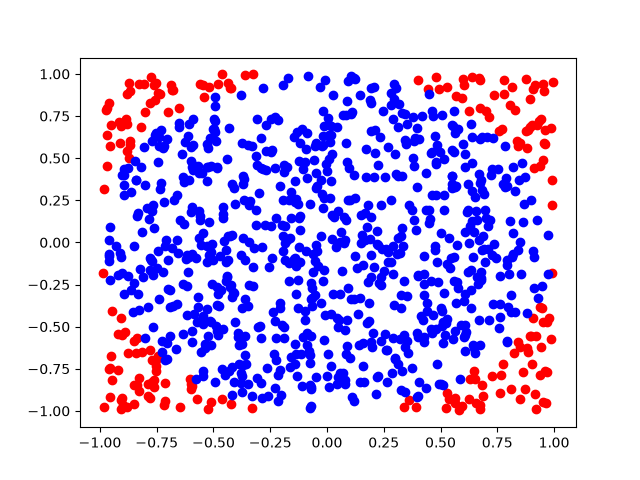
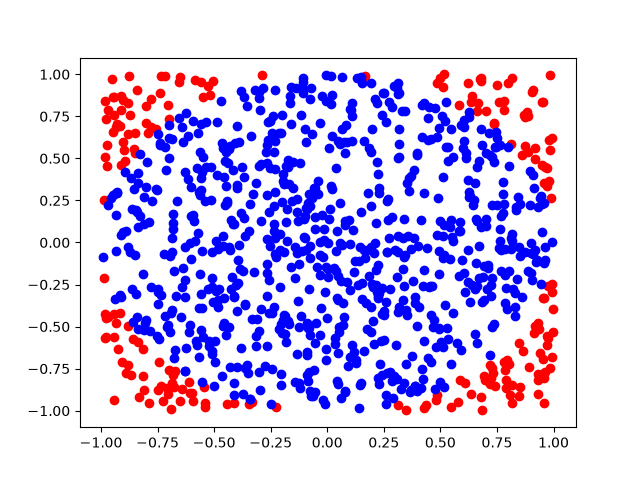
hej

diff --git a/MA3.py b/MA3.py
@@ -12,6 +12,7 @@ import math as m
 import concurrent.futures as future
 from statistics import mean 
 from time import perf_counter as pc
+from numba import njit
 
 # Exc1
 def approximate_pi(n):
@@ -31,22 +32,26 @@ def approximate_pi(n):
          else:
               x_ut.append(x)
               y_ut.append(y)
-
+    plt.figure()
     plt.scatter(x_ut, y_ut, color = "red")
     plt.scatter(x_in, y_in, color = "Blue")
     plt.savefig(F"pi är ungefär för {n}")
+    plt.close()
 
     pi_approx = 4 * (I/n)
 
     return pi_approx
 
 # Exc2, approximation
-def sphere_volume(n, d): 
-    points = ([random.uniform(-1, 1) for _ in range(d)] for _ in range(n))
-
-    inside = sum(1 for p in points if sum(map(lambda x: x**2, p)) <= 1)
-
-    return (inside / n) * (2 ** d)
+def sphere_volume(n, d):
+    I = 0
+    for _ in range(n):
+        x_val = [random.uniform(-1,1) for _ in range(d)]
+        x_kvad = list(map(lambda x: x**2, x_val))
+        if sum(x_kvad) <= 1:
+               I += 1
+        volym = (I/n) * (2**d)
+    return volym
 
 
 #Exc2, real value
@@ -55,27 +60,26 @@ def hypersphere_exact(n, d):
     return (m.pi ** (d / 2)) / m.gamma(d / 2 + 1)
 
 #Exc3: numba version
+@njit
 def sphere_volume_numba(n:int, d:int)->float:
-    inside = 0
+    I = 0
     for _ in range(n):
-        sum_sq = 0.0
-        for _ in range(d):
-            sum_sq += random.uniform(-1, 1)**2
-        if sum_sq <= 1.0:
-            inside += 1
-            
-    return (inside / n) * (2**d)
+        x_val = [random.uniform(-1,1) for _ in range(d)]
+        x_kvad = list(map(lambda x: x**2, x_val))
+        if sum(x_kvad) <= 1:
+               I += 1
+        volym = (I/n) * (2**d)   
+    return volym
 
 #Exc4: parallel code - parallelize actual computations by splitting data
 def sphere_volume_parallel(n, d, np=10):
-    chunk_size = n // np
-    args_n = [chunk_size] * np
-    args_d = [d] * np
-    with future.ProcessPoolExecutor(max_workers=np) as executor:
+     
+     ln = [int(n/np) for _ in range(np)]
+     ld = [d for _ in range(np)]
 
-        volumes = list(executor.map(sphere_volume, args_n, args_d))
-
-    return mean(volumes)
+     with future.ProcessPoolExecutor(max_workers=np) as exe:
+          resultat = list(exe.map(sphere_volume, ln, ld))
+     return mean(resultat)
     
 def main():
     # Exc1
@@ -86,23 +90,33 @@ def main():
     # Exc2
     n = 100000
     d = 2
-    sphere_volume(n, d)
+    print(f"approx volume of {d} dimentional sphere = {sphere_volume(n, d)}")
     print(f"Actual volume of {d} dimentional sphere = {hypersphere_exact(n,d)}")
 
     n = 100000
     d = 11
-    sphere_volume(n, d)
+    print(f"approx volume of {d} dimentional sphere = {sphere_volume(n, d)}")
     print(f"Actual volume of {d} dimentional sphere = {hypersphere_exact(n,d)}")
+    
 
     # Exc3
     n = 1000000
     d = 11
-    start = pc()
-    sphere_volume(n, d)
-    stop = pc()
-    print(f"Exc3: Sequential time of {d} and {n}: {stop-start}")
-    print("What is numba time?")
+    
+    for x in range(1, 4):
+        start = pc()
+        sphere_volume(n, d)
+        stop = pc()
+        print(f"Exc3: Run {x} Sequential time of {d} and {n}: {stop-start}")
 
+    print("What is numba time?")
+    for x in range(1, 4):
+        start = pc()
+        sphere_volume_numba(n, d)
+        stop = pc()
+        print(f"Exc3: Run {x} Numba time of {d} and {n}: {stop-start}")
+
+    
     # Exc4
     n = 1000000
     d = 11
@@ -111,6 +125,10 @@ def main():
     stop = pc()
     print(f"Exc4: Sequential time of {d} and {n}: {stop-start}")
     print("What is parallel time?")
+    start = pc()
+    sphere_volume_parallel(n,d,2)
+    stop = pc()
+    print(f"Exc4: Parallel time of {d} and {n}: {stop-start}")
 
     
     
